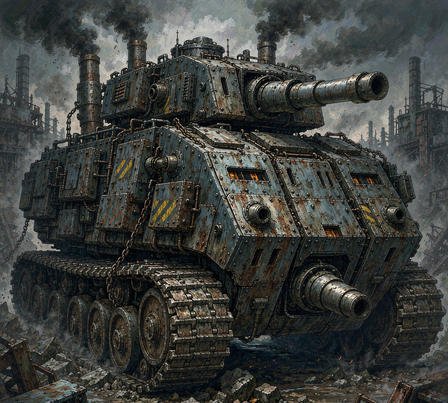
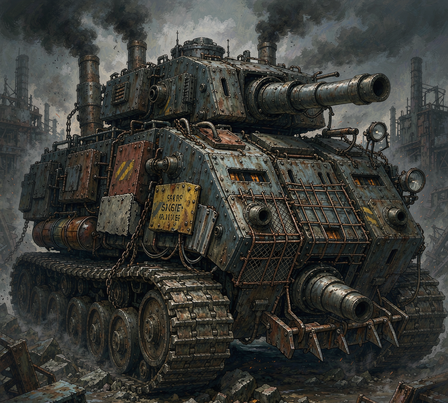
R337 卡图返工：8057 改单管榴弹炮、8038 加废土改装层
8057 榴弹击手：旧版右手是多管旋转炮，读起来像加特林而不是榴弹炮
（根因是 R336 提示词里写了「旋转弹巢」）。重画为单管大口径：
粗短滑膛管 + 方形炮口制退器（侧向三道排气槽、槽口熏黑）+
侧面平贴的可拆卸圆盘弹鼓 + 顶部掀开的铰链炮闩半插一发榴弹 +
回弹液压筒与两根外露弹簧 + 折叠标尺与仰角齿弧手轮。

8038 无限装甲：第一版太像正规军工厂新车，缺「违规改装加装配件」的废土感。
改成每层来源都不同的附加装甲——锈红船板 / 工地亮黄施工板（编号刮掉一半）/
水泥加固板 / 集装箱瓦楞侧壁，边缘是生焊疤与火焰切割毛边；
再叠正面钢筋废料笼 + 铁丝网、车尾铁链捆油桶（漏油痕）、炮塔侧面自制的
拆机副炮、卡车排气管、铁轨钉尖刺杠、螺栓补丁履带、歪支架探照灯、
扎带电缆、没对齐车体边线的警示条。

经验（ART.md / MEMORY.md 已记）：img2img 加东西灵、删结构不灵。
8057 连写四句 NO ring of circular ports / NO revolving cylinder 都没能去掉
中段那圈六孔——原图形状已在潜空间里。判据：加 → img2img；删 → 摘掉参照图
纯文生图重画。第三版照此一次过。

纯插画替换：卡名 / 费用 / 稀有度 / 效果一律未动，卡图总数仍 53。
回归 engine 3598 / reward 26 / bgm 31 / smoke 42 全绿，索引体检通过。

diff --git a/art_src/2026-10-23_卡图修订/README.md b/art_src/2026-10-23_卡图修订/README.md
@@ -1,0 +1,98 @@
+# 卡图修订 · 机械之心两张返工（R337）
+
+| id | 卡名 | 问题 | 改法 |
+|---|---|---|---|
+| 8057 | 榴弹击手 | 「右手更像加特林而不是榴弹炮」 | 多管旋转炮 → **单管大口径 + 方形制退器 + 侧面圆盘弹鼓** |
+| 8038 | 无限装甲 | 「需要有更多『违规改装加装配件』的感觉」 | 正规出厂新车 → **来源不一的装甲层层压焊 + 外挂废件** |
+
+## 用户口径（R337 原话）
+
+> 榴弹击手的右手更像加特林而不是榴弹炮，修改。无尽装甲需要有更多"违规改装加装配件"的感觉
+
+（卡名实为 8038「无限装甲」。）
+
+## 8057 榴弹击手
+
+**根因是我自己写进去的**：R336 那版提示词里写了「旋转弹巢 / 叠层弹鼓 / 枪口内壁装填余温」，
+「旋转弹巢」就是加特林。所以这次不是「加强描述」，是**把这个结构从提示词里彻底删掉**。
+
+榴弹炮的辨识度靠三样，这次全部点名：
+
+- **单管**：一根短粗滑膛管，炮口是个大黑圆，内壁一圈橙红余温
+- **方形炮口制退器**：整块方块扣在管口，侧向开三道长方形排气槽、槽口熏黑——
+  这一块和「多管」在剪影上完全不冲突，是最强区分点
+- **侧面平贴的圆盘弹鼓**：像车轮一样贴在炮身外侧，正面一圈弹位里插着粗短榴弹，
+  再一根短供弹臂把它接进机匣
+
+配套：顶部铰链炮闩掀开、半插一发带铜壳的榴弹；下方回弹液压筒 + 两根外露弹簧；
+顶部折叠标尺 + 仰角齿弧手轮；肩部插口露出的线束和冷却管。
+
+**排他句**（写死在提示词里）：
+
+```
+NO multiple barrels, NO parallel barrel cluster, NO revolving cylinder in the middle
+of the weapon, NO ring of circular holes around the barrel, NO rotary gatling assembly,
+NO minigun, NO long thin rifle barrel, NO cooling fins, NO belt of small rifle cartridges.
+There is exactly ONE barrel and exactly ONE flat disc drum.
+```
+
+## 8038 无限装甲
+
+第一版把「厚」翻译成了「层」，但**层与层是同一规格**——同色钢板叠同色钢板，读起来
+是正规军工厂的新车。这次换口径：**每层来源不同、新旧不同**，才像「非法改装」。
+
+七类外挂，逐条写死：
+
+| 类别 | 具体件 |
+|---|---|
+| 附加装甲 | 锈红船板 / 民建亮黄施工板（编号刮掉一半）/ 灰水泥加固板 / 带瓦楞的集装箱侧壁 |
+| 正面 | 钢筋 + 床架铁条的废料笼，绷着下垂铁丝网 |
+| 尾部 | 铁链捆两只废油桶，一只漏黑油痕顺装甲流下 |
+| 炮 | 炮塔侧面自制枢轴再夹一门别的残骸上拆来的炮，口径不搭、朝向偏一点 |
+| 管路 | 裸露工业管 + 拆来的卡车排气管，缠被烤变色的胶带 |
+| 杂件 | 链环、挂牌、铁轨钉焊的尖刺保险杠、螺栓补丁履带、歪支架探照灯、扎带电缆、手喷警示条没对齐 |
+| 表面 | 流挂锈痕、规格不一的螺栓头、油手印、补漆压补漆 |
+
+**排他句**：`NO clean factory finish, NO uniform matching armour plates,
+NO standardized military tank silhouette, NO glossy pristine paint, NO sci-fi energy shields`。
+
+## img2img 的陷阱（本批最大教训）
+
+两张都用原图做 `image1` 起手（8057 high / 8038 medium），意图是保住机型配色只换被否定处。
+
+- **8038 一次过**：要的是「加东西」，img2img 最擅长这个。
+- **8057 前两版都失败**：第一版改出了大口径炮口，但中段那圈六孔原封不动；
+  第二版把否定句加到四句（`NO ring of circular ports / NO revolving cylinder /
+  NO rotary gatling assembly / NO multi-barrel cluster`），**那圈孔还在**。
+  原因很简单——原图里那个形状已经在潜空间里，参照图的分量压过文字。
+
+> **判断规则**：要「删掉原图里的某个结构」时，img2img 的否定句基本无效；
+> 第三版直接**不带参照图、纯文生图重画**，把角色特征（配色 / 目镜 / 站姿 / 背景 /
+> 光照方向）逐条重写一遍，一次就对了。
+> 加东西 → img2img；删结构 → 文生图重画。
+
+## 出图记录
+
+| 版本 | 结果 |
+|---|---|
+| 8057 v1 | 大口径炮口成立，中段六孔残留 → 废弃（`8057_v1_废弃.png`） |
+| 8057 v1b | 加了方形制退器，六孔仍在 → 废弃（`8057_v1b_残留六孔.png`） |
+| 8057 v2 | **采用**（纯文生图） |
+| 8038 v2 | **采用**（一次过） |
+
+原图（1024）全留档在 `raw/`，按卡 id 命名，废弃版带原因后缀——以后回看能知道
+「哪一版为什么被否」。
+
+## 处理链
+
+1. 切底部 11% 水印（`h * 0.89`）
+2. cover 到 1.1117（`448 / 403`）
+3. LANCZOS 缩到 `448×403`
+4. `--headless --path . --import`
+
+## 验收
+
+- 缩到 448×403 后主体完整、水印干净（对照图 `art_src/_review/_r337_cardfix.png`，左旧右新）
+- 图鉴详情 `gallery.tscn -- --screenshot --card 8057 / 8038` 两张抽查正常
+- `_art_index.py --check` → 体检通过
+- `_verify.py` 五套全绿（纯插画替换，不涉及任何机制 / 计数）
